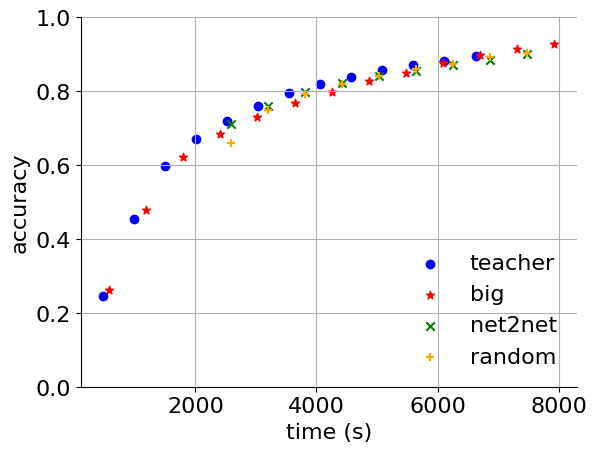
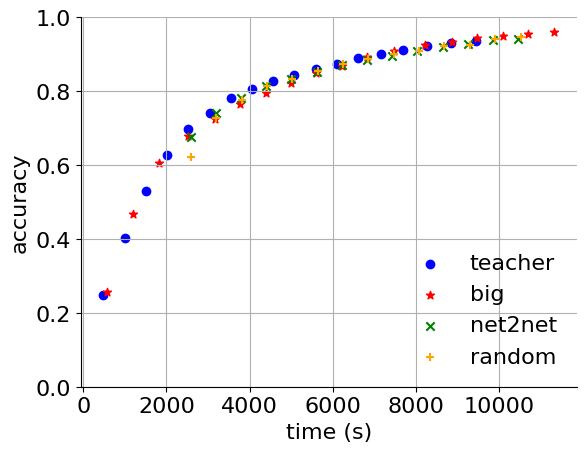
update plotting

diff --git a/plotting/plot4.py b/plotting/plot4.py
@@ -13,16 +13,16 @@ import config
 
 def plot6():
     teacher_metrics = plot.breakdown_into_lists(
-        os.path.join(config.RESULTS, "TeacherInceptionCIFAR105")
+        os.path.join(config.RESULTS, "TeacherInceptionCIFAR10118")
     )
     big_metrics = plot.breakdown_into_lists(
-        os.path.join(config.RESULTS, "BigInceptionCIFAR105")
+        os.path.join(config.RESULTS, "BigInceptionCIFAR10118")
     )
     net2net_only = plot.breakdown_into_lists(
-        os.path.join(config.RESULTS, "AdaptedInceptionCIFAR108")
+        os.path.join(config.RESULTS, "AdaptedInceptionCIFAR1011102")
     )
     random_deepen = plot.breakdown_into_lists(
-        os.path.join(config.RESULTS, "AdaptedInceptionCIFAR109")
+        os.path.join(config.RESULTS, "AdaptedInceptionCIFAR101102")
     )
     _, ax = plt.subplots()
     ax.plot(
@@ -63,16 +63,16 @@ def plot6():
 
 def plot7():
     teacher_metrics = plot.breakdown_into_lists(
-        os.path.join(config.RESULTS, "TeacherInceptionCIFAR105")
+        os.path.join(config.RESULTS, "TeacherInceptionCIFAR10118")
     )
     big_metrics = plot.breakdown_into_lists(
-        os.path.join(config.RESULTS, "BigInceptionCIFAR105")
+        os.path.join(config.RESULTS, "BigInceptionCIFAR10118")
     )
     net2net_only = plot.breakdown_into_lists(
-        os.path.join(config.RESULTS, "AdaptedInceptionCIFAR108")
+        os.path.join(config.RESULTS, "AdaptedInceptionCIFAR1011102")
     )
     random_deepen = plot.breakdown_into_lists(
-        os.path.join(config.RESULTS, "AdaptedInceptionCIFAR109")
+        os.path.join(config.RESULTS, "AdaptedInceptionCIFAR101102")
     )
     _, ax = plt.subplots()
     ax.scatter(
@@ -111,23 +111,43 @@ def plot7():
     plot.save("plot7.png")
 
 def plot8():
-    net2net_kd_only = plot.breakdown_into_lists(
-        os.path.join(config.RESULTS, "AdaptedInceptionCIFAR106")
+    kd_metrics = plot.breakdown_into_lists(
+        os.path.join(config.RESULTS, "AdaptedInceptionCIFAR101104")
     )
-    net2net_wd_kd = plot.breakdown_into_lists(
-        os.path.join(config.RESULTS, "AdaptedInceptionCIFAR107")
+    kd_and_wd_metrics = plot.breakdown_into_lists(
+        os.path.join(config.RESULTS, "AdaptedInceptionCIFAR1011103")
+    )
+    no_kd_metrics = plot.breakdown_into_lists(
+        os.path.join(config.RESULTS, "AdaptedInceptionCIFAR1011106")
+    )
+    wd_metrics = plot.breakdown_into_lists(
+        os.path.join(config.RESULTS, "AdaptedInceptionCIFAR1011105")
     )
     _, ax = plt.subplots()
     ax.scatter(
-        net2net_kd_only["train_epoch_times"],
-        net2net_kd_only["train_epoch_accs"],
+        kd_metrics["train_epoch_times"],
+        kd_metrics["train_epoch_accs"],
         color="blue",
         marker="o",
         label="kd",
     )
     ax.scatter(
-        net2net_wd_kd["train_epoch_times"],
-        net2net_wd_kd["train_epoch_accs"],
+        wd_metrics["train_epoch_times"],
+        wd_metrics["train_epoch_accs"],
+        color="green",
+        marker="x",
+        label="wd",
+    )
+    ax.scatter(
+        no_kd_metrics["train_epoch_times"],
+        no_kd_metrics["train_epoch_accs"],
+        color="yellow",
+        marker="^",
+        label="baseline",
+    )
+    ax.scatter(
+        kd_and_wd_metrics["train_epoch_times"],
+        kd_and_wd_metrics["train_epoch_accs"],
         color="red",
         marker="*",
         label="kd + wd",

diff --git a/src/plot.py b/src/plot.py
@@ -8,7 +8,7 @@ import argparse
 import config
 from logger import read_json
 import os
-from collections import defaultdict
+import numpy as np
 import config
 
 PLOTS = os.path.join("..", "plots")
@@ -93,6 +93,11 @@ def breakdown_into_lists(results_folder):
             elif "test_acc" in entry:
                 test_epoch_times.append(entry["time"])
                 test_epoch_accs.append(entry["test_acc"])
+    windowsize = 100
+    train_batch_times = train_batch_times[windowsize - 1 :]
+    train_batch_accs = np.convolve(
+        train_batch_accs, np.ones(windowsize) * (1 / windowsize), "valid"
+    )
     return {
         "train_epoch_times": train_epoch_times,
         "train_epoch_accs": train_epoch_accs,
